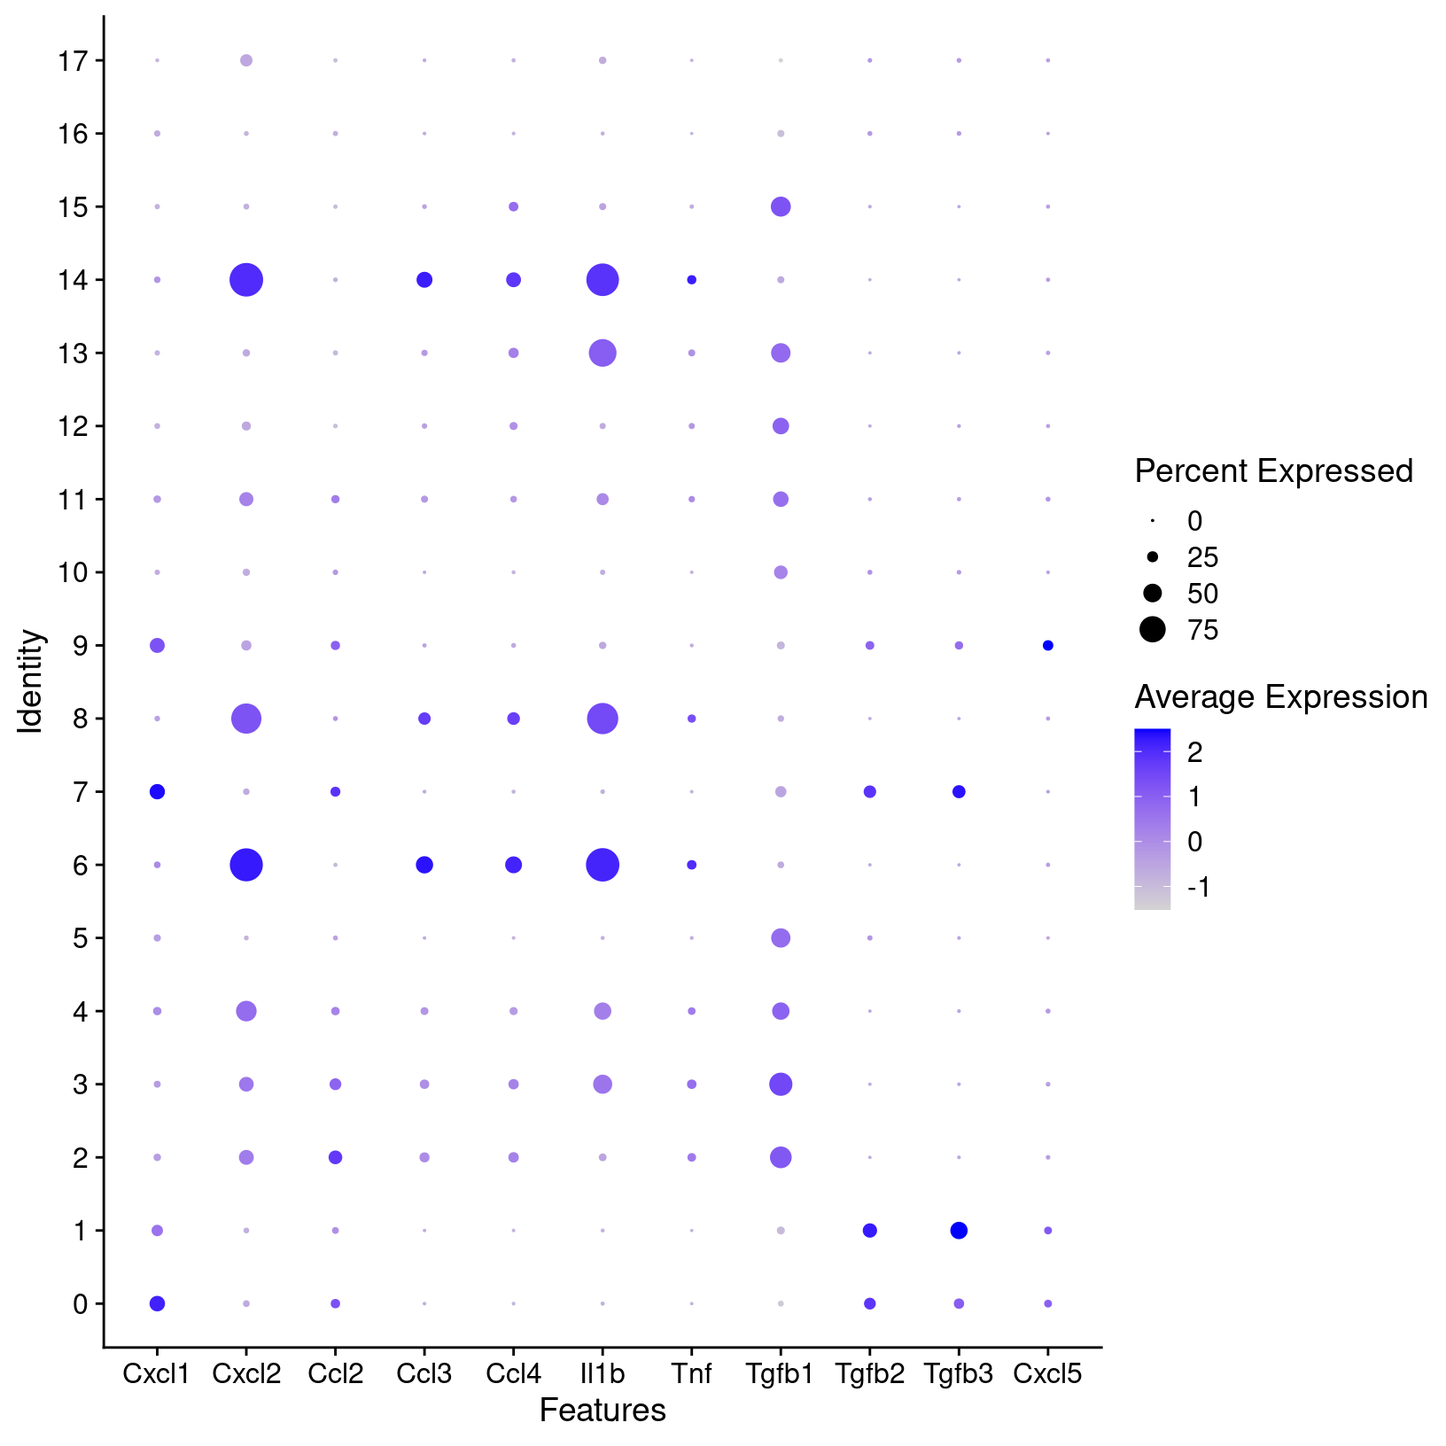
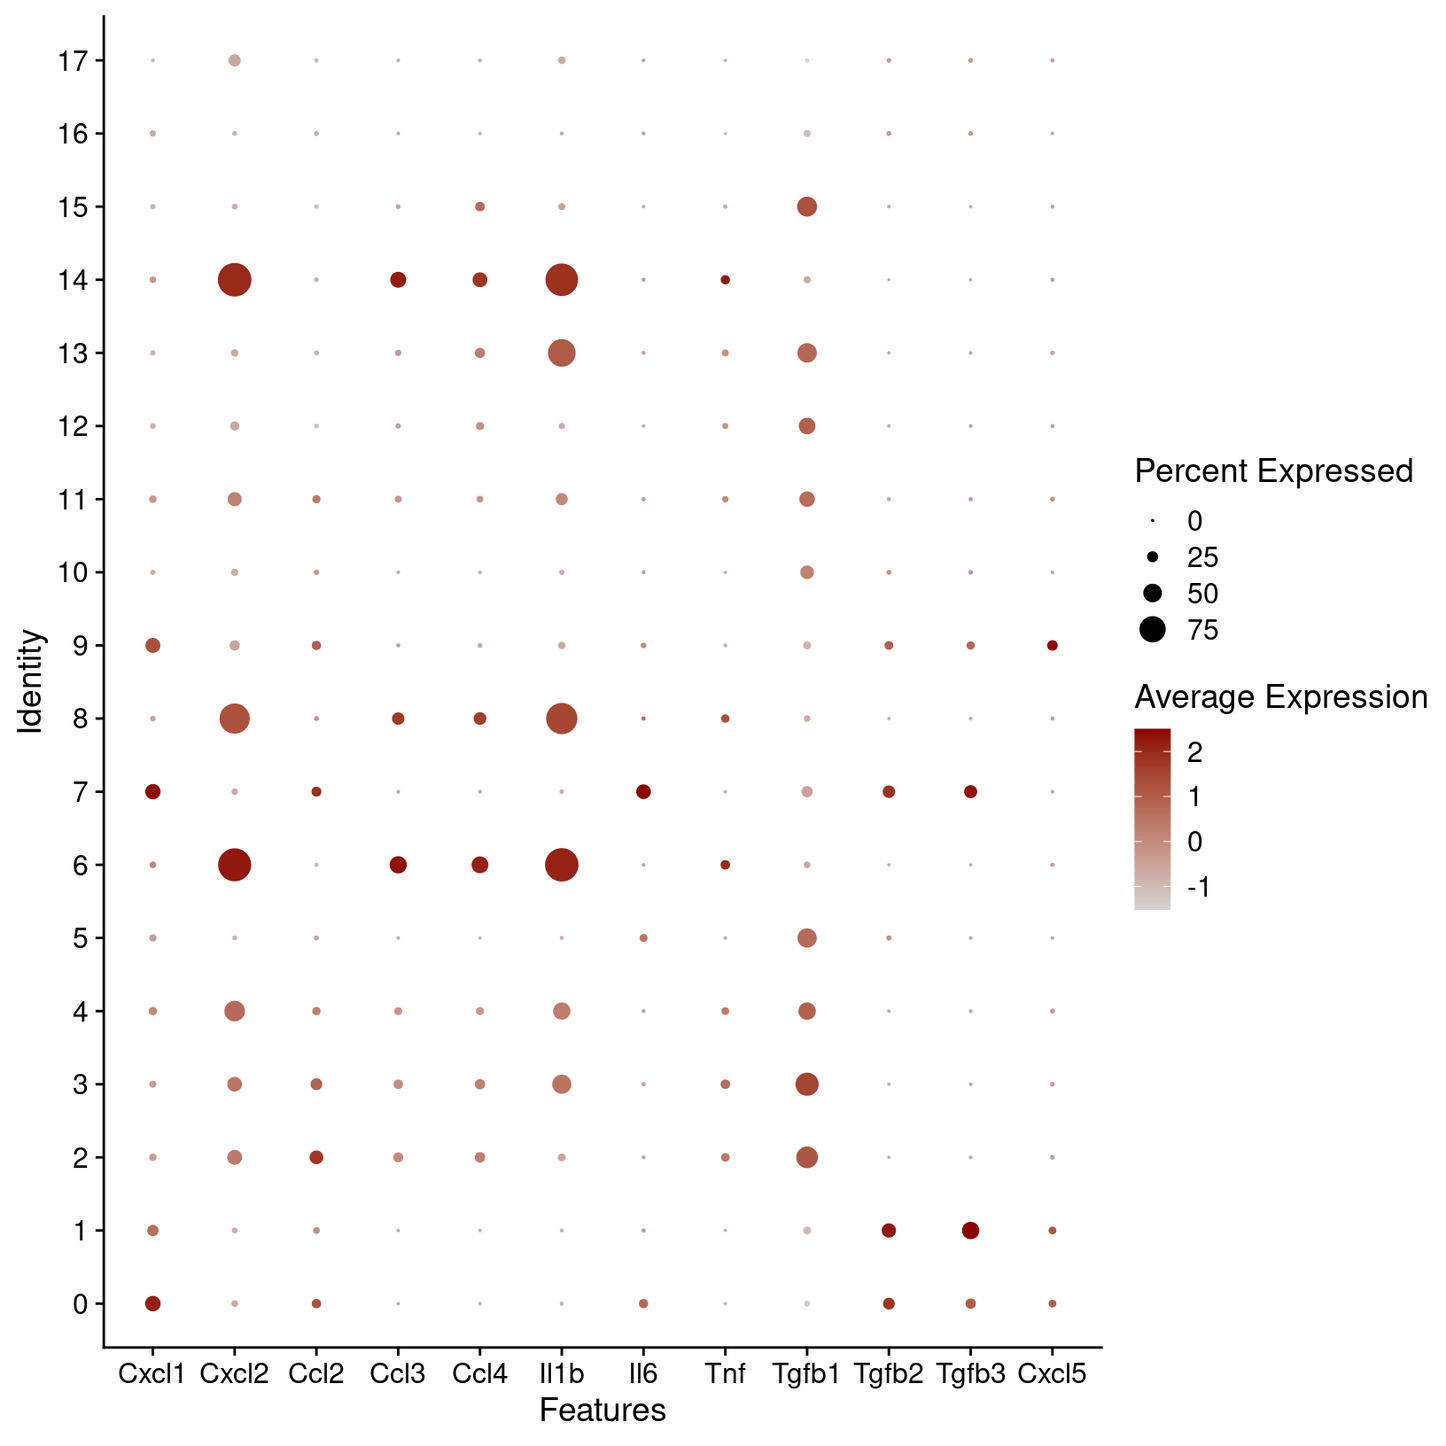
deploy files

diff --git a/main/html/07-CellTypeAnnos.html b/main/html/07-CellTypeAnnos.html
@@ -11,7 +11,7 @@
 
 <meta name="author" content="UM Bioinformatics Core Workshop Team" />
 
-<meta name="date" content="2025-08-21" />
+<meta name="date" content="2025-08-22" />
 
 <title>Cell Type Annotation</title>
 
@@ -425,7 +425,7 @@ div.tocify {
 
 <h1 class="title toc-ignore">Cell Type Annotation</h1>
 <h4 class="author">UM Bioinformatics Core Workshop Team</h4>
-<h4 class="date">2025-08-21</h4>
+<h4 class="date">2025-08-22</h4>
 
 </div>
 
@@ -892,47 +892,188 @@ et al (2022)</a> and <a
 href="https://ashpublications.org/blood/article/128/8/e20/35749/A-single-cell-resolution-map-of-mouse">Nestorowa
 et al (2016)</a> to see if other modifications should be made to the
 scCATCH predictions:</p>
+<div id="immune-marker-genes" class="section level2">
+<h2>Immune marker genes</h2>
 <pre class="r"><code># -------------------------------------------------------------------------
-# Create lists of immune cells and associated gene markers
-immune_markers = list()
-immune_markers[[&#39;Inflam. Macrophage&#39;]] = c(&#39;Cd14&#39;, &#39;Cxcl2&#39;) # Cd14 a- monocyte/macrophage cells
-immune_markers[[&#39;Platelet&#39;]] = c(&#39;Pf4&#39;)
-immune_markers[[&#39;Mast cells&#39;]] = c(&#39;Gata2&#39;, &#39;Kit&#39;)
-immune_markers[[&#39;NK cells&#39;]] = c(&#39;Nkg7&#39;, &#39;Klrd1&#39;)
-immune_markers[[&#39;B-cell&#39;]] = c( &#39;Ly6d&#39;, &#39;Cd19&#39;, &#39;Cd79b&#39;, &#39;Ms4a1&#39;)
-immune_markers[[&#39;T-cell&#39;]] = c( &#39;Cd3d&#39;,&#39;Cd3e&#39;,&#39;Cd3g&#39;) # also Thy1</code></pre>
-<pre class="r"><code># -------------------------------------------------------------------------
-# Plot other immune to assist with cluster identification
-immune_markers_plot = DotPlot(geo_so, features = immune_markers, assay = &#39;SCT&#39;)  +
-  theme(text=element_text(size=10), axis.text.x = element_text(angle = 45, vjust = 0.5))
-immune_markers_plot
+# Create a named list of immune cells and associated gene markers
 
-# save to file
+immune_markers = list(
+  &#39;Inflam. Macrophage&#39; = c(&#39;Cd14&#39;, &#39;Cxcl2&#39;),
+  &#39;Platelet&#39; = c(&#39;Pf4&#39;),
+  &#39;Mast cells&#39; = c(&#39;Gata2&#39;, &#39;Kit&#39;),
+  &#39;NK cells&#39; = c(&#39;Nkg7&#39;, &#39;Klrd1&#39;),
+  &#39;B-cell&#39;= c( &#39;Ly6d&#39;, &#39;Cd19&#39;, &#39;Cd79b&#39;, &#39;Ms4a1&#39;),
+  &#39;T-cell&#39; = c( &#39;Cd3d&#39;,&#39;Cd3e&#39;,&#39;Cd3g&#39;)
+  ) 
+immune_markers</code></pre>
+<pre><code>$`Inflam. Macrophage`
+[1] &quot;Cd14&quot;  &quot;Cxcl2&quot;
+
+$Platelet
+[1] &quot;Pf4&quot;
+
+$`Mast cells`
+[1] &quot;Gata2&quot; &quot;Kit&quot;  
+
+$`NK cells`
+[1] &quot;Nkg7&quot;  &quot;Klrd1&quot;
+
+$`B-cell`
+[1] &quot;Ly6d&quot;  &quot;Cd19&quot;  &quot;Cd79b&quot; &quot;Ms4a1&quot;
+
+$`T-cell`
+[1] &quot;Cd3d&quot; &quot;Cd3e&quot; &quot;Cd3g&quot;</code></pre>
+<pre class="r"><code># -------------------------------------------------------------------------
+# Make a dot plot of immune markers to refine cluster identification
+# Since this dot plot is based on known markers instead of empirical markers,
+# we&#39;ll cue that by using red instead of the default blue. 
+immune_markers_plot_basic = DotPlot(geo_so,
+                              features = immune_markers,
+                              assay = &#39;SCT&#39;,
+                              cols = c(&quot;lightgrey&quot;, &quot;darkred&quot;))
+
+immune_markers_plot_basic</code></pre>
+<p><img src="images/curriculum/07-CellTypeAnnotation/07-imm_marker_plot_basic-1.png" width="816" style="display: block; margin: auto;" /></p>
+<p>Dot plots show the gene expression patterns across clusters. This
+plot also groups the genes by their immune cell categories. It’s very
+nice - but the genes symbols (bottom) are overlapping and hard to read.
+Also the immune cell categories (top) are truncated. Since this is a
+ggplot object, we can adjust it to create a better plot:</p>
+<pre class="r"><code># -------------------------------------------------------------------------
+# Start with the plot above but reduce the font size and rotate the gene labels 
+
+immune_markers_plot_better = immune_markers_plot_basic + 
+  theme(text=element_text(size=10),
+        axis.text.x = element_text(angle = 45, vjust = 0.5))
+
+immune_markers_plot_better</code></pre>
+<p><img src="images/curriculum/07-CellTypeAnnotation/07-imm_marker_plot_better-1.png" width="816" style="display: block; margin: auto;" /></p>
+<p>More readable than before - but with a few more ggplot functions, we
+can make it even better.</p>
+<pre class="r"><code># -------------------------------------------------------------------------
+# Continuing adjustments to plot above
+# - coord_flip() rotates the plot
+# - facet_grid() adds space between the cell types
+# - theme() slides the cell type labels be right of the gene symbols
+
+immune_markers_plot_best = immune_markers_plot_better +
+  coord_flip() +
+  facet_grid(rows = vars(feature.groups),
+             scales = &#39;free&#39;,
+             space = &#39;free&#39;,
+             switch =&#39;y&#39;) +
+  theme(strip.placement = &#39;outside&#39;,
+        strip.text.y.left = element_text(angle = 0))
+immune_markers_plot_best</code></pre>
+<p><img src="images/curriculum/07-CellTypeAnnotation/07-imm_marker_plot_best-1.png" width="816" style="display: block; margin: auto;" /></p>
+<pre class="r"><code># -------------------------------------------------------------------------
+# save dot plot to file
 ggsave(filename = &#39;results/figures/immune_markers_sct_dot_plot.png&#39;, 
-       plot = immune_markers_plot, width = 10, height = 5, units = &#39;in&#39;)</code></pre>
-<p><img src="images/curriculum/07-CellTypeAnnotation/07-imm_marker_gene_check-1.png" width="816" style="display: block; margin: auto;" /></p>
+       plot = immune_markers_plot_best,
+       width = 10, height = 5, units = &#39;in&#39;)</code></pre>
+</div>
+<div id="other-marker-genes" class="section level2">
+<h2>Other marker genes</h2>
+<p>For immune markers (above) we created a <strong>named list</strong>
+of cell types and gene markers. Here’s another way to create a named
+list by building it from a table. It’s a few more steps, but it’s a
+handy alternative and can sometimes make the data clearer.</p>
 <pre class="r"><code># -------------------------------------------------------------------------
 # Create lists of other cells and associated gene markers
-other_markers = list()
-other_markers[[&#39;Pericyte&#39;]] = c(&#39;Acan&#39;,&#39;Sox9&#39;)
-other_markers[[&#39;SMC&#39;]] = c(&#39;Acta2&#39;, &#39;Myh11&#39;) # SMC = mesenchymal smooth-muscle cell/mesenchymal lineage
-other_markers[[&#39;Keratinocytes&#39;]] = c(&#39;Thy1&#39;, &#39;Dlk1&#39;) # fibro progenitors aso=Thy1
-other_markers[[&#39;Myofibroblasts&#39;]] = c(&#39;Tmem100&#39;, &#39;Cd34&#39;, &#39;Ly6c1&#39;) # hematopoetic stem/activated fibroblast=Cd34
-other_markers[[&#39;Fibroblast&#39;]] = c(&#39;Dpt&#39;, &#39;Fn1&#39;, &#39;Col3a1&#39;)  # activated fib = Fn1
-other_markers[[&#39;Endothelial&#39;]] = c(&#39;Pecam1&#39;, &#39;Cd38&#39;) # from wound healing; Pecam1 also exp in endothelial
-other_markers[[&#39;HSC&#39;]] = c(&#39;Ltb&#39;, &#39;Cd74&#39;) # less well defined/conflicting definitions
-other_markers[[&#39;Erythroid&#39;]] = c(&#39;Hba-a1&#39;)</code></pre>
+
+other_markers_string = &quot;
+cell_type      | gene_markers         | comment
+Pericyte       | Acan, Sox9           | 
+SMC            | Acta2, Myh11         | mesenchymal smooth-muscle cell/mesenchymal lineage
+Keratinocytes  | Thy1, Dlk1           | fibro progenitors
+Myofibroblasts | Tmem100, Cd34, Ly6c1 | hematopoetic stem/activated fibroblast
+Fibroblast     | Dpt, Fn1, Col3a1     | activated fib
+Endothelial    | Pecam1, Cd38         | from wound healing; Pecam1 also exp in endothelial
+HSC            | Ltb, Cd74            | less well defined/conflicting definitions
+Erythroid      | Hba-a1               |
+&quot;
+other_marker_tbl = read_delim(other_markers_string,
+                              delim=&quot;|&quot;,
+                              trim_ws=TRUE,
+                              show_col_types = FALSE)
+other_marker_tbl</code></pre>
+<pre><code># A tibble: 8 × 3
+  cell_type      gene_markers         comment                                           
+  &lt;chr&gt;          &lt;chr&gt;                &lt;chr&gt;                                             
+1 Pericyte       Acan, Sox9           &lt;NA&gt;                                              
+2 SMC            Acta2, Myh11         mesenchymal smooth-muscle cell/mesenchymal lineage
+3 Keratinocytes  Thy1, Dlk1           fibro progenitors                                 
+4 Myofibroblasts Tmem100, Cd34, Ly6c1 hematopoetic stem/activated fibroblast            
+5 Fibroblast     Dpt, Fn1, Col3a1     activated fib                                     
+6 Endothelial    Pecam1, Cd38         from wound healing; Pecam1 also exp in endothelial
+7 HSC            Ltb, Cd74            less well defined/conflicting definitions         
+8 Erythroid      Hba-a1               &lt;NA&gt;                                              </code></pre>
+<pre class="r"><code># -------------------------------------------------------------------------
+# Make marker tibble into named list
+
+# Split comma seperated gene symbols into actual lists
+other_marker_tbl$gene_markers = str_split(other_marker_tbl$gene_markers, &quot;,&quot;)
+
+# Remove any stray whitespace before/after gene symbol
+other_marker_tbl$gene_markers = lapply(other_marker_tbl$gene_markers, str_trim)
+
+# Make a named list of cell_type -&gt; marker gene symmbols
+other_markers = setNames(other_marker_tbl$gene_markers, other_marker_tbl$cell_type)
+
+other_markers</code></pre>
+<pre><code>$Pericyte
+[1] &quot;Acan&quot; &quot;Sox9&quot;
+
+$SMC
+[1] &quot;Acta2&quot; &quot;Myh11&quot;
+
+$Keratinocytes
+[1] &quot;Thy1&quot; &quot;Dlk1&quot;
+
+$Myofibroblasts
+[1] &quot;Tmem100&quot; &quot;Cd34&quot;    &quot;Ly6c1&quot;  
+
+$Fibroblast
+[1] &quot;Dpt&quot;    &quot;Fn1&quot;    &quot;Col3a1&quot;
+
+$Endothelial
+[1] &quot;Pecam1&quot; &quot;Cd38&quot;  
+
+$HSC
+[1] &quot;Ltb&quot;  &quot;Cd74&quot;
+
+$Erythroid
+[1] &quot;Hba-a1&quot;</code></pre>
 <pre class="r"><code># -------------------------------------------------------------------------
 # Plot known cell-type markers
-other_markers_dot_plot = DotPlot(geo_so, features = other_markers, assay = &#39;SCT&#39;) +
-  theme(text=element_text(size=10), axis.text.x = element_text(angle = 45, vjust = 0.5))
-other_markers_dot_plot
 
-# save to file
+other_markers_dot_plot_basic = DotPlot(geo_so, 
+                                       features = other_markers,
+                                       assay = &#39;SCT&#39;,
+                                       cols = c(&quot;lightgrey&quot;, &quot;darkred&quot;)) +
+  theme(text=element_text(size=10), axis.text.x = element_text(angle = 45, vjust = 0.5))
+other_markers_dot_plot_basic</code></pre>
+<p><img src="images/curriculum/07-CellTypeAnnotation/07-other_markers_dot_plot_basic-1.png" width="816" style="display: block; margin: auto;" /></p>
+<pre class="r"><code># -------------------------------------------------------------------------
+# Enhance plot aesthetics as we did above
+
+other_markers_dot_plot = other_markers_dot_plot_basic + 
+  theme(text=element_text(size=10),
+        axis.text.x = element_text(angle = 45, vjust = 0.5)) +
+  coord_flip() +
+  facet_grid(rows = vars(feature.groups),
+             scales = &#39;free&#39;,
+             space = &#39;free&#39;,
+             switch =&#39;y&#39;) +
+  theme(strip.placement = &#39;outside&#39;,
+        strip.text.y.left = element_text(angle = 0))
+other_markers_dot_plot</code></pre>
+<p><img src="images/curriculum/07-CellTypeAnnotation/07-other_markers_dot_plot_enhanced-1.png" width="816" style="display: block; margin: auto;" /></p>
+<pre class="r"><code># -------------------------------------------------------------------------
+# Save other markers dot plot to file
 ggsave(filename = &#39;results/figures/other_markers_sct_dot_plot.png&#39;, 
        plot = other_markers_dot_plot, width = 12, height = 5, units = &#39;in&#39;)</code></pre>
-<p><img src="images/curriculum/07-CellTypeAnnotation/07-marker_gene_check-1.png" width="816" style="display: block; margin: auto;" />
-In the first plot, B-cell and T-cell markers seem to line up with the
+<p>In the first plot, B-cell and T-cell markers seem to line up with the
 predictions and are limited to single clusters. However, macrophage and
 dendrocyte markers match to multiple clusters including some annotated
 with different cell types, so we can consider modifying those cluster
@@ -941,6 +1082,7 @@ labels.</p>
 want to test other clustering parameters and discuss the results with a
 researcher familiar with the expected cell types. However, we can notice
 some patterns that we can use to refine our cluster annotations.</p>
+</div>
 <div id="utilizing-genes-of-interest-from-the-original-paper"
 class="section level2">
 <h2>Utilizing genes of interest from the original paper</h2>
@@ -956,34 +1098,53 @@ markers for a specific cell type are found in too many or too few
 clusters as that can suggest that re-clustering is needed or that some
 of the clusters should be manually combined before annotating. We can
 create lists of markers used in figures from the <a
-href="https://www.ncbi.nlm.nih.gov/pmc/articles/PMC7002453/">original
-paper</a> before using the same <code>DotPlot()</code> function to
-visualize the expression level and frequency of these genes in our
-current clusters:</p>
+href="https://www.ncbi.nlm.nih.gov/pmc/articles/PMC7002453/Fig1"
+target="_blank">original paper</a> before using the same
+<code>DotPlot()</code> function to visualize the expression level and
+frequency of these genes in our current clusters:</p>
 <pre class="r"><code># -------------------------------------------------------------------------
-# Visualize manually selected marker genes
-
 # Create lists of genes from paper
-fig1g_markers = c(&#39;Cxcl1&#39;, &#39;Cxcl2&#39;, &#39;Ccl2&#39;, &#39;Ccl3&#39;, &#39;Ccl4&#39;, &#39;Il1b&#39;, &#39;Il6b&#39;, &#39;Tnf&#39;, &#39;Tgfb1&#39;, &#39;Tgfb2&#39;, &#39;Tgfb3&#39;, &#39;Cxcl5&#39;)
+# https://pmc.ncbi.nlm.nih.gov/articles/PMC7002453/#Fig1
+fig1g_markers = c(&#39;Cxcl1&#39;, &#39;Cxcl2&#39;, &#39;Ccl2&#39;, &#39;Ccl3&#39;, &#39;Ccl4&#39;, &#39;Il1b&#39;, &#39;Il6&#39;, &#39;Tnf&#39;, &#39;Tgfb1&#39;, &#39;Tgfb2&#39;, &#39;Tgfb3&#39;, &#39;Cxcl5&#39;)
 fig1h_markers = c(&#39;Cxcr2&#39;, &#39;Csf1r&#39;, &#39;Csf3r&#39;, &#39;Tgfbr1&#39;, &#39;Tgfbr3&#39;, &#39;Il1r1&#39;, &#39;Il6ra&#39;, &#39;Lifr&#39;, &#39;Tgfbr2&#39;)
 
-# create DotPlots for genes from paper
-fig1g_sct_dot_plot = DotPlot(geo_so, features = fig1g_markers, assay = &#39;SCT&#39;)</code></pre>
-<pre><code>Warning: The following requested variables were not found: Il6b</code></pre>
-<pre class="r"><code>fig1h_sct_dot_plot = DotPlot(geo_so, features = fig1h_markers, assay = &#39;SCT&#39;)
+# It&#39;s diligent to verify genes from paper were measured in the data.
+markers_from_paper = unique(c(fig1g_markers, fig1h_markers))
+measured_genes = Features(geo_so[[&quot;SCT&quot;]])
 
+# If everything worked, missing markers *should be* empty. If it&#39;s not empty, we
+# could examine the marker symbols to see if we mistyped a symbol or if the
+# marker was named something other than the canonical gene symbol in the paper.
+missing_markers = setdiff(markers_from_paper, measured_genes)
+cat(paste0(length(missing_markers),
+            &#39; gene(s) were listed as markers but not found in the data. Excerpt below:&#39;))</code></pre>
+<pre><code>0 gene(s) were listed as markers but not found in the data. Excerpt below:</code></pre>
+<pre class="r"><code>head(missing_markers)</code></pre>
+<pre><code>character(0)</code></pre>
+<pre class="r"><code># -------------------------------------------------------------------------
+# create DotPlots for genes from paper
+fig1g_sct_dot_plot = DotPlot(geo_so,
+                             features = fig1g_markers,
+                             assay = &#39;SCT&#39;,
+                             cols = c(&quot;lightgrey&quot;, &quot;darkred&quot;))
+
+fig1h_sct_dot_plot = DotPlot(geo_so,
+                             features = fig1h_markers,
+                             assay = &#39;SCT&#39;,
+                             cols = c(&quot;lightgrey&quot;, &quot;darkred&quot;))
+
+fig1g_sct_dot_plot
+fig1h_sct_dot_plot</code></pre>
+<p><img src="images/curriculum/07-CellTypeAnnotation/07-known_dot_plots_sct-1.png" width="816" style="display: block; margin: auto;" /><img src="images/curriculum/07-CellTypeAnnotation/07-known_dot_plots_sct-2.png" width="816" style="display: block; margin: auto;" /></p>
+<pre class="r"><code># -------------------------------------------------------------------------
 # save plots to file
 ggsave(filename = &#39;results/figures/markers_fig1g_sct_dot_plot.png&#39;, 
        plot = fig1g_sct_dot_plot, width = 8, height = 6, units = &#39;in&#39;)
 ggsave(filename = &#39;results/figures/markers_fig1h_sct_dot_plot.png&#39;, 
-       plot = fig1h_sct_dot_plot, width = 8, height = 6, units = &#39;in&#39;)
-
-fig1g_sct_dot_plot
-fig1h_sct_dot_plot</code></pre>
-<p><img src="images/curriculum/07-CellTypeAnnotation/07-known_dot_plots_sct-1.png" width="816" style="display: block; margin: auto;" /><img src="images/curriculum/07-CellTypeAnnotation/07-known_dot_plots_sct-2.png" width="816" style="display: block; margin: auto;" />
-For known marker genes, it’s important to note that since scRNA-seq is
-only measuring transcriptional signals that markers at the protein level
-(e.g used for approaches like FACS) may be less effective. An
+       plot = fig1h_sct_dot_plot, width = 8, height = 6, units = &#39;in&#39;)</code></pre>
+<p>For known marker genes, it’s important to note that since scRNA-seq
+is only measuring transcriptional signals that markers at the protein
+level (e.g used for approaches like FACS) may be less effective. An
 alternative or complement to using marker genes could be methods like
 using gene set enrichment (GSEA) <a
 href="https://bioconductor.org/books/3.15/OSCA.basic/cell-type-annotation.html#computing-gene-set-activities">as
@@ -1007,8 +1168,28 @@ al</em>
 by specifying the <code>RNA</code> assay:</p>
 <pre class="r"><code># -------------------------------------------------------------------------
 # Visualize manually selected marker genes (from unintegrated data)
-rna_dot_plot = DotPlot(geo_so, features = fig1g_markers, assay = &#39;RNA&#39;)
-fig1h_rna_dot_plot = DotPlot(geo_so, features = fig1h_markers, assay = &#39;RNA&#39;)
+
+# Dotplot will use the data layer and will complain if the data layer is absent,
+# so we simply assign the count layer to the data layer.
+geo_so@assays$RNA$data = geo_so@assays$RNA$counts
+fig1g_rna_dot_plot = DotPlot(geo_so, 
+                             features = fig1g_markers,
+                             assay = &#39;RNA&#39;,
+                             cols = c(&quot;lightgrey&quot;, &quot;darkgreen&quot;))
+fig1h_rna_dot_plot = DotPlot(geo_so,
+                             features = fig1h_markers,
+                             assay = &#39;RNA&#39;,
+                             cols = c(&quot;lightgrey&quot;, &quot;darkgreen&quot;))
+
+ggsave(filename = &#39;results/figures/markers_fig1g_rna_dot_plot.png&#39;,
+       plot = fig1g_rna_dot_plot,
+       width = 8, height = 6, units = &#39;in&#39;)
+ggsave(filename = &#39;results/figures/markers_fig1h_rna_dot_plot.png&#39;,
+       plot = fig1h_rna_dot_plot,
+       width = 8, height = 6, units = &#39;in&#39;)
+
+fig1g_rna_dot_plot
+fig1h_rna_dot_plot
 
 ggsave(filename = &#39;results/figures/markers_fig1g_rna_dot_plot.png&#39;,
        plot = fig1g_rna_dot_plot,
@@ -1434,9 +1615,9 @@ code)</strong>
 the level of specificity that’s relevant to <em>your</em> biological
 question or use the same labels for clusters that don’t seems to share
 similar expression programs</p>
-<pre><code>            used   (Mb) gc trigger   (Mb)   max used   (Mb)
-Ncells   7037387  375.9   12067562  644.5   12067562  644.5
-Vcells 340743177 2599.7  904873463 6903.7 1131091741 8629.6</code></pre>
+<pre><code>            used   (Mb) gc trigger   (Mb)  max used   (Mb)
+Ncells   6924761  369.9   12262208  654.9  12262208  654.9
+Vcells 340319123 2596.5  565303907 4313.0 465710278 3553.1</code></pre>
 <img src="images/curriculum/07-CellTypeAnnotation/07-catch_umap_plots-1.png" width="1152" style="display: block; margin: auto;" />
 </details>
 <p><br> <br/></p>
@@ -1450,9 +1631,9 @@ Vcells 340743177 2599.7  904873463 6903.7 1131091741 8629.6</code></pre>
 # (Ok since we saved the plots as we went along)
 rm(list=names(which(unlist(eapply(.GlobalEnv, is.ggplot))))); 
 gc()</code></pre>
-<pre><code>            used   (Mb) gc trigger   (Mb)   max used   (Mb)
-Ncells   6959813  371.7   12067562  644.5   12067562  644.5
-Vcells 337166855 2572.4  904873463 6903.7 1131091741 8629.6</code></pre>
+<pre><code>            used   (Mb) gc trigger   (Mb)  max used   (Mb)
+Ncells   6845972  365.7   12262208  654.9  12262208  654.9
+Vcells 336630459 2568.3  565303907 4313.0 465710278 3553.1</code></pre>
 <p>We’ll save the scCATCH object and our updated Seurat object with cell
 type annotations.</p>
 <pre class="r"><code># -------------------------------------------------------------------------
